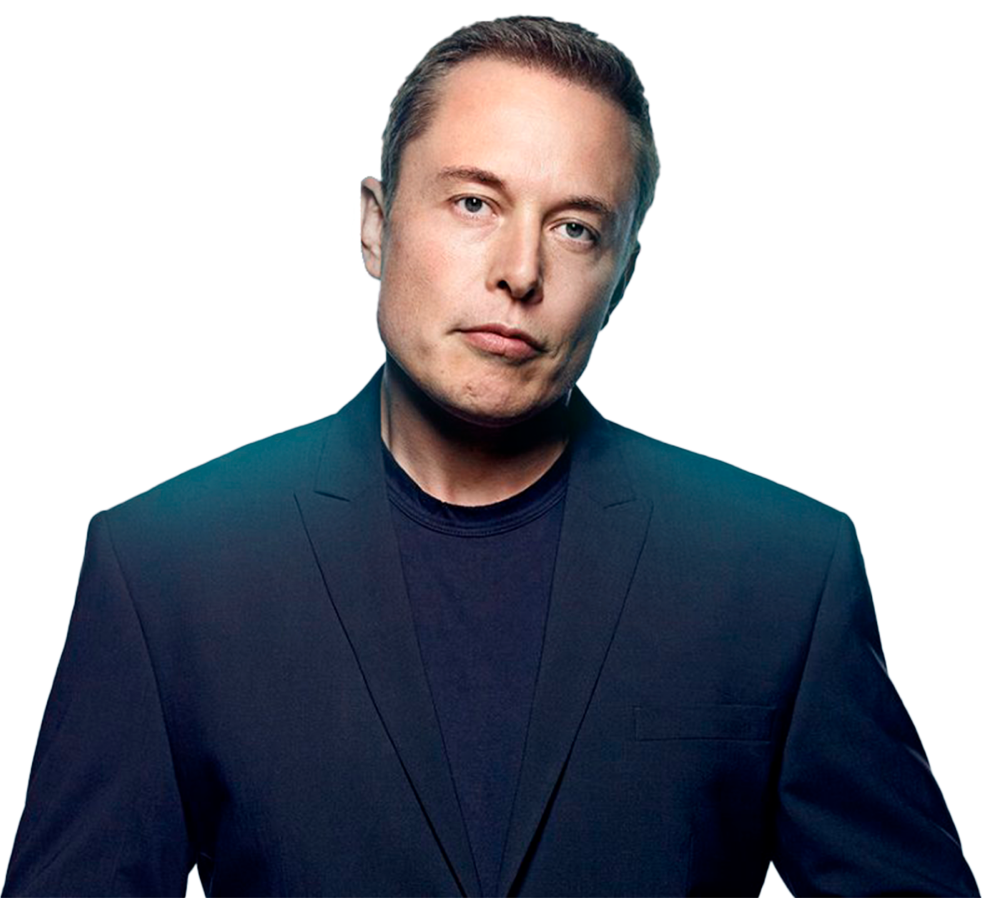
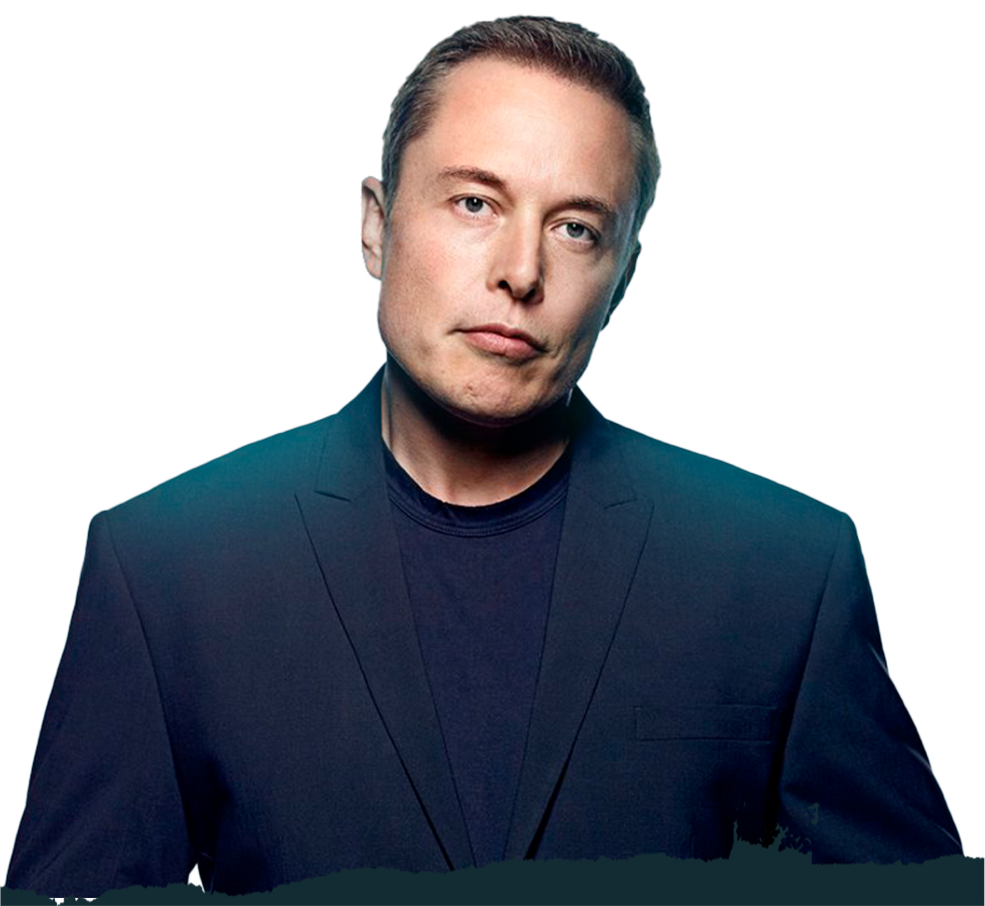
initial

diff --git a/app/dist/styles/index.css b/app/dist/styles/index.css
@@ -218,7 +218,7 @@ a {
   margin-top: -120px;
   position: relative;
   height: 100vh;
-  overflow-x: hidden;
+  overflow: hidden;
 }
 
 .intro__bg {
@@ -226,10 +226,16 @@ a {
   z-index: -9999;
   max-width: 100%;
   max-height: 100%;
+  top: -15px;
+  left: -15px;
   width: 100%;
   height: 100%;
+  -webkit-transform: scale(1.2);
+  -ms-transform: scale(1.2);
+  transform: scale(1.2);
   -o-object-fit: cover;
   object-fit: cover;
+  overflow-y: hidden;
 }
 
 .intro__el {
@@ -620,4 +626,4 @@ a {
     max-width: 270px;
   }
 }
[2 lines of base64/hex data omitted]

diff --git a/app/dist/index.html b/app/dist/index.html
@@ -1,1 +1,1 @@
-<!DOCTYPE html><html lang="en"><head><meta charset="UTF-8"><meta http-equiv="X-UA-Compatible" content="IE=edge"><meta name="viewport" content="width=device-width, initial-scale=1.0"><title>Document</title><link href="https://fonts.googleapis.com/css2?family=Oswald:wght@200;300;400;500;600;700&amp;display=swap" rel="stylesheet"><link rel="stylesheet" href="styles/index.css"></head><body> <header class="header"><nav class="header__nav container"> <img class="logo" src="images/logo.webp" alt="niverse"><div class="header__menu"> <ul class="header__list"><a class="header__link" href="#!">Меню</a><a class="header__link" href="#!">Меню</a><a class="header__link" href="#!">Меню</a><a class="header__link" href="#!">Меню</a><a class="header__link" href="#!">Меню</a></ul><a class="header__btn" href="profile.html">Мой аккаунт</a><a class="header__lang" href="#!"> <svg width="35" height="35" viewBox="0 0 35 35" fill="none" xmlns="http://www.w3.org/2000/svg"><path d="M2.79271 16.9415H8.52906C8.57456 14.1536 8.95963 11.4595 9.62903 9.07069H5.86705C5.55853 9.07069 5.30854 8.8207 5.30854 8.51218C5.30854 8.20365 5.55853 7.95366 5.86705 7.95366H9.97113C10.5682 6.15414 11.3351 4.5638 12.2464 3.28779C12.4257 3.03676 12.7746 2.97853 13.0254 3.15785C13.2765 3.33709 13.3346 3.68597 13.1554 3.93693C12.3647 5.04412 11.6893 6.4092 11.1474 7.95366H16.9416V2.79258C16.9416 2.48406 17.1916 2.23407 17.5002 2.23407C17.8087 2.23407 18.0587 2.48406 18.0587 2.79258V7.95366H23.853C23.3111 6.4092 22.6357 5.04412 21.845 3.93693C21.6658 3.68597 21.7239 3.33709 21.9749 3.15785C22.226 2.9786 22.5748 3.03684 22.754 3.28779C23.6653 4.5638 24.4322 6.15422 25.0293 7.95366H29.1333C29.4419 7.95366 29.6918 8.20365 29.6918 8.51218C29.6918 8.8207 29.4419 9.07069 29.1333 9.07069H25.3714C26.0407 11.4595 26.4258 14.1536 26.4713 16.9415H32.2076C32.5161 16.9415 32.7661 17.1915 32.7661 17.5C32.7661 17.8085 32.5161 18.0585 32.2076 18.0585H26.4713C26.4258 20.8465 26.0407 23.5406 25.3713 25.9294H29.1333C29.4419 25.9294 29.6918 26.1794 29.6918 26.4879C29.6918 26.7964 29.4419 27.0464 29.1333 27.0464H25.0293C24.4321 28.8462 23.665 30.4368 22.7535 31.713C22.6445 31.8656 22.4728 31.947 22.2985 31.947C22.1862 31.947 22.0728 31.9132 21.9743 31.843C21.7234 31.6636 21.6652 31.3148 21.8445 31.0638C22.6354 29.9565 23.311 28.5912 23.853 27.0465H18.0587V32.2075C18.0587 32.516 17.8087 32.766 17.5002 32.766C17.1916 32.766 16.9416 32.516 16.9416 32.2075V27.0464H11.1473C11.6893 28.5912 12.3649 29.9564 13.1558 31.0637C13.3351 31.3147 13.2769 31.6636 13.026 31.8429C12.9276 31.9131 12.8142 31.9469 12.7018 31.9469C12.5275 31.9469 12.3558 31.8655 12.2468 31.7129C11.3353 30.4368 10.5683 28.8461 9.97106 27.0463H5.86697C5.55845 27.0463 5.30846 26.7963 5.30846 26.4878C5.30846 26.1793 5.55845 25.9293 5.86697 25.9293H9.62903C8.95963 23.5405 8.57456 20.8464 8.52906 18.0585H2.79271C2.48419 18.0585 2.2342 17.8085 2.2342 17.5C2.2342 17.1914 2.48419 16.9415 2.79271 16.9415ZM10.7876 9.07069C10.0941 11.4301 9.69329 14.1314 9.64631 16.9415H16.9416V9.07069H10.7876ZM24.2127 9.07069H18.0587V16.9415H25.354C25.3069 14.1313 24.9062 11.4301 24.2127 9.07069ZM24.2127 25.9294C24.9062 23.57 25.307 20.8687 25.354 18.0585H18.0587V25.9294H24.2127ZM10.7876 25.9294H16.9416V18.0585H9.64631C9.69337 20.8687 10.0941 23.5701 10.7876 25.9294Z" fill="#232323"></path><path d="M5.12564 5.12564C8.43098 1.8203 12.8256 0 17.5 0C22.1744 0 26.569 1.8203 29.8744 5.12564C33.1797 8.43098 35 12.8256 35 17.5001C35 20.9458 34.0028 24.2691 32.1133 27.13L34.2519 33.5453C34.3188 33.746 34.2666 33.9673 34.117 34.1169C33.9674 34.2664 33.7462 34.3185 33.5453 34.2518L27.1299 32.1134C24.269 34.0028 20.9457 35 17.5 35C12.8256 35 8.43098 33.1797 5.12564 29.8744C1.8203 26.569 0 22.1744 0 17.5001C0 12.8256 1.8203 8.43098 5.12564 5.12564ZM17.5 33.883C20.8132 33.883 24.0052 32.8984 26.7311 31.0357C26.8251 30.9715 26.9351 30.9383 27.0462 30.9383C27.1056 30.9383 27.1652 30.9477 27.2229 30.967L32.8389 32.8389L30.9668 27.2229C30.9116 27.0572 30.9371 26.8753 31.0355 26.7311C32.8984 24.0053 33.883 20.8132 33.883 17.5001C33.883 8.46643 26.5336 1.11702 17.5 1.11702C8.46635 1.11702 1.11702 8.46643 1.11702 17.5001C1.11702 26.5336 8.46635 33.883 17.5 33.883Z" fill="#232323"></path></svg></a></div></nav></header><main class="main" id="main"><section class="intro"><img class="intro__bg" src="images/bg.webp" alt=""><div class="intro__row"> <div class="intro__col"><img class="intro__el" src="images/elips.webp" alt=""><img class="intro__img" src="images/elon.webp" alt=""></div><div class="intro__col half-container"><h1 class="intro__title">Инвестиции в будущее с великими умами</h1><a class="intro__btn" href="#!">Инвестировать</a></div></div></section><section class="about"></section><section class="benefit"></section><section class="start"></section><section class="statistics"></section><section class="payments"></section><section class="schedule"></section><section class="answers"></section></main><footer class="footer"></footer><script src="https://cdnjs.cloudflare.com/ajax/libs/gsap/2.1.3/TweenMax.min.js"></script><script src="https://cdnjs.cloudflare.com/ajax/libs/gsap/2.1.3/TimelineMax.min.js"></script><script src="scripts/index.js"> </script></body></html>
+<!DOCTYPE html><html lang="en"><head><meta charset="UTF-8"><meta http-equiv="X-UA-Compatible" content="IE=edge"><meta name="viewport" content="width=device-width, initial-scale=1.0"><title>Document</title><link href="https://fonts.googleapis.com/css2?family=Oswald:wght@200;300;400;500;600;700&amp;display=swap" rel="stylesheet"><link rel="stylesheet" href="styles/index.css"></head><body> <header class="header"><nav class="header__nav container"> <img class="logo" src="images/logo.webp" alt="niverse"><div class="header__menu"> <ul class="header__list"><a class="header__link" href="#!">Меню</a><a class="header__link" href="#!">Меню</a><a class="header__link" href="#!">Меню</a><a class="header__link" href="#!">Меню</a><a class="header__link" href="#!">Меню</a></ul><a class="header__btn" href="profile.html">Мой аккаунт</a><a class="header__lang" href="#!"> <svg width="35" height="35" viewBox="0 0 35 35" fill="none" xmlns="http://www.w3.org/2000/svg"><path d="M2.79271 16.9415H8.52906C8.57456 14.1536 8.95963 11.4595 9.62903 9.07069H5.86705C5.55853 9.07069 5.30854 8.8207 5.30854 8.51218C5.30854 8.20365 5.55853 7.95366 5.86705 7.95366H9.97113C10.5682 6.15414 11.3351 4.5638 12.2464 3.28779C12.4257 3.03676 12.7746 2.97853 13.0254 3.15785C13.2765 3.33709 13.3346 3.68597 13.1554 3.93693C12.3647 5.04412 11.6893 6.4092 11.1474 7.95366H16.9416V2.79258C16.9416 2.48406 17.1916 2.23407 17.5002 2.23407C17.8087 2.23407 18.0587 2.48406 18.0587 2.79258V7.95366H23.853C23.3111 6.4092 22.6357 5.04412 21.845 3.93693C21.6658 3.68597 21.7239 3.33709 21.9749 3.15785C22.226 2.9786 22.5748 3.03684 22.754 3.28779C23.6653 4.5638 24.4322 6.15422 25.0293 7.95366H29.1333C29.4419 7.95366 29.6918 8.20365 29.6918 8.51218C29.6918 8.8207 29.4419 9.07069 29.1333 9.07069H25.3714C26.0407 11.4595 26.4258 14.1536 26.4713 16.9415H32.2076C32.5161 16.9415 32.7661 17.1915 32.7661 17.5C32.7661 17.8085 32.5161 18.0585 32.2076 18.0585H26.4713C26.4258 20.8465 26.0407 23.5406 25.3713 25.9294H29.1333C29.4419 25.9294 29.6918 26.1794 29.6918 26.4879C29.6918 26.7964 29.4419 27.0464 29.1333 27.0464H25.0293C24.4321 28.8462 23.665 30.4368 22.7535 31.713C22.6445 31.8656 22.4728 31.947 22.2985 31.947C22.1862 31.947 22.0728 31.9132 21.9743 31.843C21.7234 31.6636 21.6652 31.3148 21.8445 31.0638C22.6354 29.9565 23.311 28.5912 23.853 27.0465H18.0587V32.2075C18.0587 32.516 17.8087 32.766 17.5002 32.766C17.1916 32.766 16.9416 32.516 16.9416 32.2075V27.0464H11.1473C11.6893 28.5912 12.3649 29.9564 13.1558 31.0637C13.3351 31.3147 13.2769 31.6636 13.026 31.8429C12.9276 31.9131 12.8142 31.9469 12.7018 31.9469C12.5275 31.9469 12.3558 31.8655 12.2468 31.7129C11.3353 30.4368 10.5683 28.8461 9.97106 27.0463H5.86697C5.55845 27.0463 5.30846 26.7963 5.30846 26.4878C5.30846 26.1793 5.55845 25.9293 5.86697 25.9293H9.62903C8.95963 23.5405 8.57456 20.8464 8.52906 18.0585H2.79271C2.48419 18.0585 2.2342 17.8085 2.2342 17.5C2.2342 17.1914 2.48419 16.9415 2.79271 16.9415ZM10.7876 9.07069C10.0941 11.4301 9.69329 14.1314 9.64631 16.9415H16.9416V9.07069H10.7876ZM24.2127 9.07069H18.0587V16.9415H25.354C25.3069 14.1313 24.9062 11.4301 24.2127 9.07069ZM24.2127 25.9294C24.9062 23.57 25.307 20.8687 25.354 18.0585H18.0587V25.9294H24.2127ZM10.7876 25.9294H16.9416V18.0585H9.64631C9.69337 20.8687 10.0941 23.5701 10.7876 25.9294Z" fill="#232323"></path><path d="M5.12564 5.12564C8.43098 1.8203 12.8256 0 17.5 0C22.1744 0 26.569 1.8203 29.8744 5.12564C33.1797 8.43098 35 12.8256 35 17.5001C35 20.9458 34.0028 24.2691 32.1133 27.13L34.2519 33.5453C34.3188 33.746 34.2666 33.9673 34.117 34.1169C33.9674 34.2664 33.7462 34.3185 33.5453 34.2518L27.1299 32.1134C24.269 34.0028 20.9457 35 17.5 35C12.8256 35 8.43098 33.1797 5.12564 29.8744C1.8203 26.569 0 22.1744 0 17.5001C0 12.8256 1.8203 8.43098 5.12564 5.12564ZM17.5 33.883C20.8132 33.883 24.0052 32.8984 26.7311 31.0357C26.8251 30.9715 26.9351 30.9383 27.0462 30.9383C27.1056 30.9383 27.1652 30.9477 27.2229 30.967L32.8389 32.8389L30.9668 27.2229C30.9116 27.0572 30.9371 26.8753 31.0355 26.7311C32.8984 24.0053 33.883 20.8132 33.883 17.5001C33.883 8.46643 26.5336 1.11702 17.5 1.11702C8.46635 1.11702 1.11702 8.46643 1.11702 17.5001C1.11702 26.5336 8.46635 33.883 17.5 33.883Z" fill="#232323"></path></svg></a></div></nav></header><main class="main" id="main"><section class="intro"><img class="intro__bg parallax" src="images/bg.webp" alt="" data-value="5"><div class="intro__row"> <div class="intro__col"><img class="intro__el parallax" src="images/elips.webp" alt="" data-value="1"><img class="intro__img parallax" src="images/elon.webp" alt="" data-value="-1"></div><div class="intro__col half-container"><h1 class="intro__title">Инвестиции в будущее с великими умами</h1><a class="intro__btn" href="#!">Инвестировать</a></div></div></section><section class="about"><p>asdgasgasdgsda</p></section><section class="benefit"></section><section class="start"></section><section class="statistics"></section><section class="payments"></section><section class="schedule"></section><section class="answers"></section></main><footer class="footer"></footer><script src="https://cdnjs.cloudflare.com/ajax/libs/gsap/2.1.3/TweenMax.min.js"></script><script src="https://cdnjs.cloudflare.com/ajax/libs/gsap/2.1.3/TimelineMax.min.js"></script><script src="scripts/index.js"> </script></body></html>

diff --git a/app/dist/scripts/index.js b/app/dist/scripts/index.js
@@ -1,2 +1,2 @@
-"use strict";var elon=document.querySelector(".intro__img"),elips=document.querySelector(".intro__el"),title=document.querySelector(".intro__title"),btn=document.querySelector(".intro__btn"),tl=new TimelineMax;tl.fromTo(elon,.8,{transform:"scale(0)",opacity:"0"},{transform:"scale(1)",opacity:"1",ease:Power2.easeInOut}).fromTo(elips,1.2,{transform:"scale(0)",opacity:"0"},{transform:"scale(1)",opacity:"1",ease:Power2.easeInOut}).fromTo(title,1.2,{opacity:"0",transform:"translateX(100%)"},{opacity:"1",transform:"translateX(0)",ease:Power2.easeInOut},"-=1.2").fromTo(btn,.3,{opacity:"0"},{opacity:"1",ease:Power2.easeInOut});
[1 lines of base64/hex data omitted]
+"use strict";var elon=document.querySelector(".intro__img"),elips=document.querySelector(".intro__el"),title=document.querySelector(".intro__title"),btn=document.querySelector(".intro__btn"),tl=new TimelineMax;tl.fromTo(elon,.8,{transform:"scale(0)",opacity:"0"},{transform:"scale(1)",opacity:"1",ease:Power2.easeInOut}).fromTo(elips,1.2,{transform:"scale(0)",opacity:"0"},{transform:"scale(1)",opacity:"1",ease:Power2.easeInOut}).fromTo(title,1.2,{opacity:"0",transform:"translateX(100%)"},{opacity:"1",transform:"translateX(0)",ease:Power2.easeInOut},"-=1.2").fromTo(btn,.3,{opacity:"0"},{opacity:"1",ease:Power2.easeInOut}),document.addEventListener("mousemove",parallax);function parallax(a){document.querySelectorAll(".parallax").forEach(function(b){var c=b.getAttribute("data-value"),d=a.clientX*c/250,e=a.clientY*c/250;b.style.transform="translateX("+d+"px) translateY("+e+"px)"})}
[1 lines of base64/hex data omitted]

diff --git a/app/src/scripts/index.ts b/app/src/scripts/index.ts
@@ -9,3 +9,19 @@ tl.fromTo(elon, 0.8, { transform: 'scale(0)', opacity: '0' }, { transform: 'scal
   .fromTo(elips, 1.2, { transform: 'scale(0)', opacity: '0' }, { transform: 'scale(1)', opacity: '1', ease: Power2.easeInOut })
   .fromTo(title, 1.2, { opacity: '0', transform: 'translateX(100%)' }, { opacity: '1', transform: 'translateX(0)', ease: Power2.easeInOut }, '-=1.2')
   .fromTo(btn, 0.3, { opacity: '0' }, { opacity: '1', ease: Power2.easeInOut })
+
+
+
+
+  
+  document.addEventListener("mousemove", parallax);
+  function parallax(e){
+    document.querySelectorAll(".parallax").forEach(function(move){
+
+      var moving_value = move.getAttribute("data-value");
+      var x = (e.clientX * moving_value) / 250;
+      var y = (e.clientY * moving_value) / 250;
+
+      move.style.transform = "translateX(" + x + "px) translateY(" + y + "px)";
+    });
+  }

diff --git a/app/src/scss/index.scss b/app/src/scss/index.scss
@@ -128,16 +128,20 @@ a{
   margin-top: -120px;
   position: relative;
   height: 100vh;
-  overflow-x: hidden;
+  overflow: hidden;
 
   &__bg{
     position: absolute;
     z-index: -9999;  
     max-width: 100%;
     max-height: 100%;
+    top: -15px;
+    left: -15px;
     width: 100%;
     height: 100%;
+    transform: scale(1.2);
     object-fit: cover;
+    overflow-y: hidden;
   }
 
   &__el{
